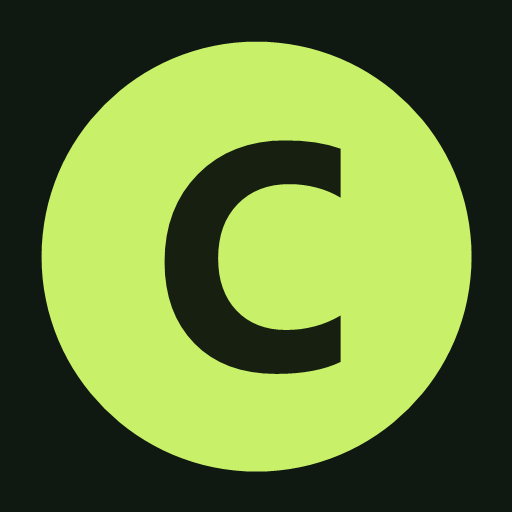
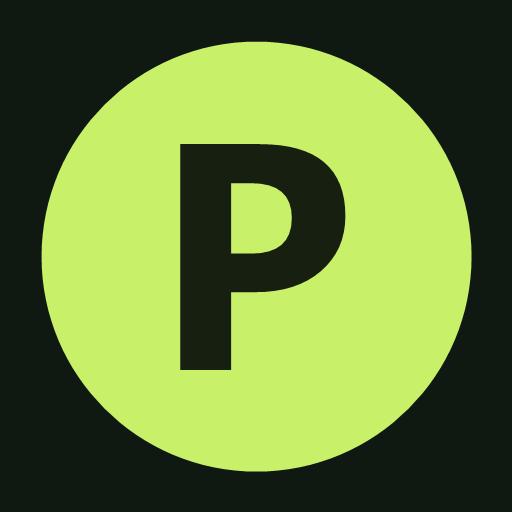
Rename app to Padel

Changed region(s): [[0.3125, 0.25, 0.6875, 0.75]]

diff --git a/index.html b/index.html
@@ -6,10 +6,10 @@
   <meta name="theme-color" content="#101812">
   <meta name="apple-mobile-web-app-capable" content="yes">
   <meta name="apple-mobile-web-app-status-bar-style" content="black-translucent">
-  <meta name="apple-mobile-web-app-title" content="Cancha">
+  <meta name="apple-mobile-web-app-title" content="Padel">
   <link rel="manifest" href="./manifest.json">
   <link rel="apple-touch-icon" href="./icons/icon-192.png">
-  <title>Torneos de Padel — Gestión de pádel</title>
+  <title>Padel — Gestión de torneos</title>
   <style>
     :root {
       color-scheme: dark;
@@ -286,7 +286,7 @@
 <body>
   <div class="app">
     <aside class="sidebar">
-      <div class="brand"><div class="brand-mark">C</div><div class="brand-name">cancha<span>.</span></div></div>
+      <div class="brand"><div class="brand-mark">P</div><div class="brand-name"><span>Padel</span></div></div>
       <div class="nav-label">Organizaci&oacute;n</div>
       <nav class="nav" aria-label="Navegación principal">
         <button class="active" data-page="dashboard"><span class="nav-icon">⌂</span> Resumen</button>

diff --git a/sw.js b/sw.js
@@ -1,4 +1,4 @@
-const CACHE_NAME = "cancha-padel-shell-v1";
+const CACHE_NAME = "cancha-padel-shell-v2";
 const APP_SHELL = [
   "./",
   "./index.html",
